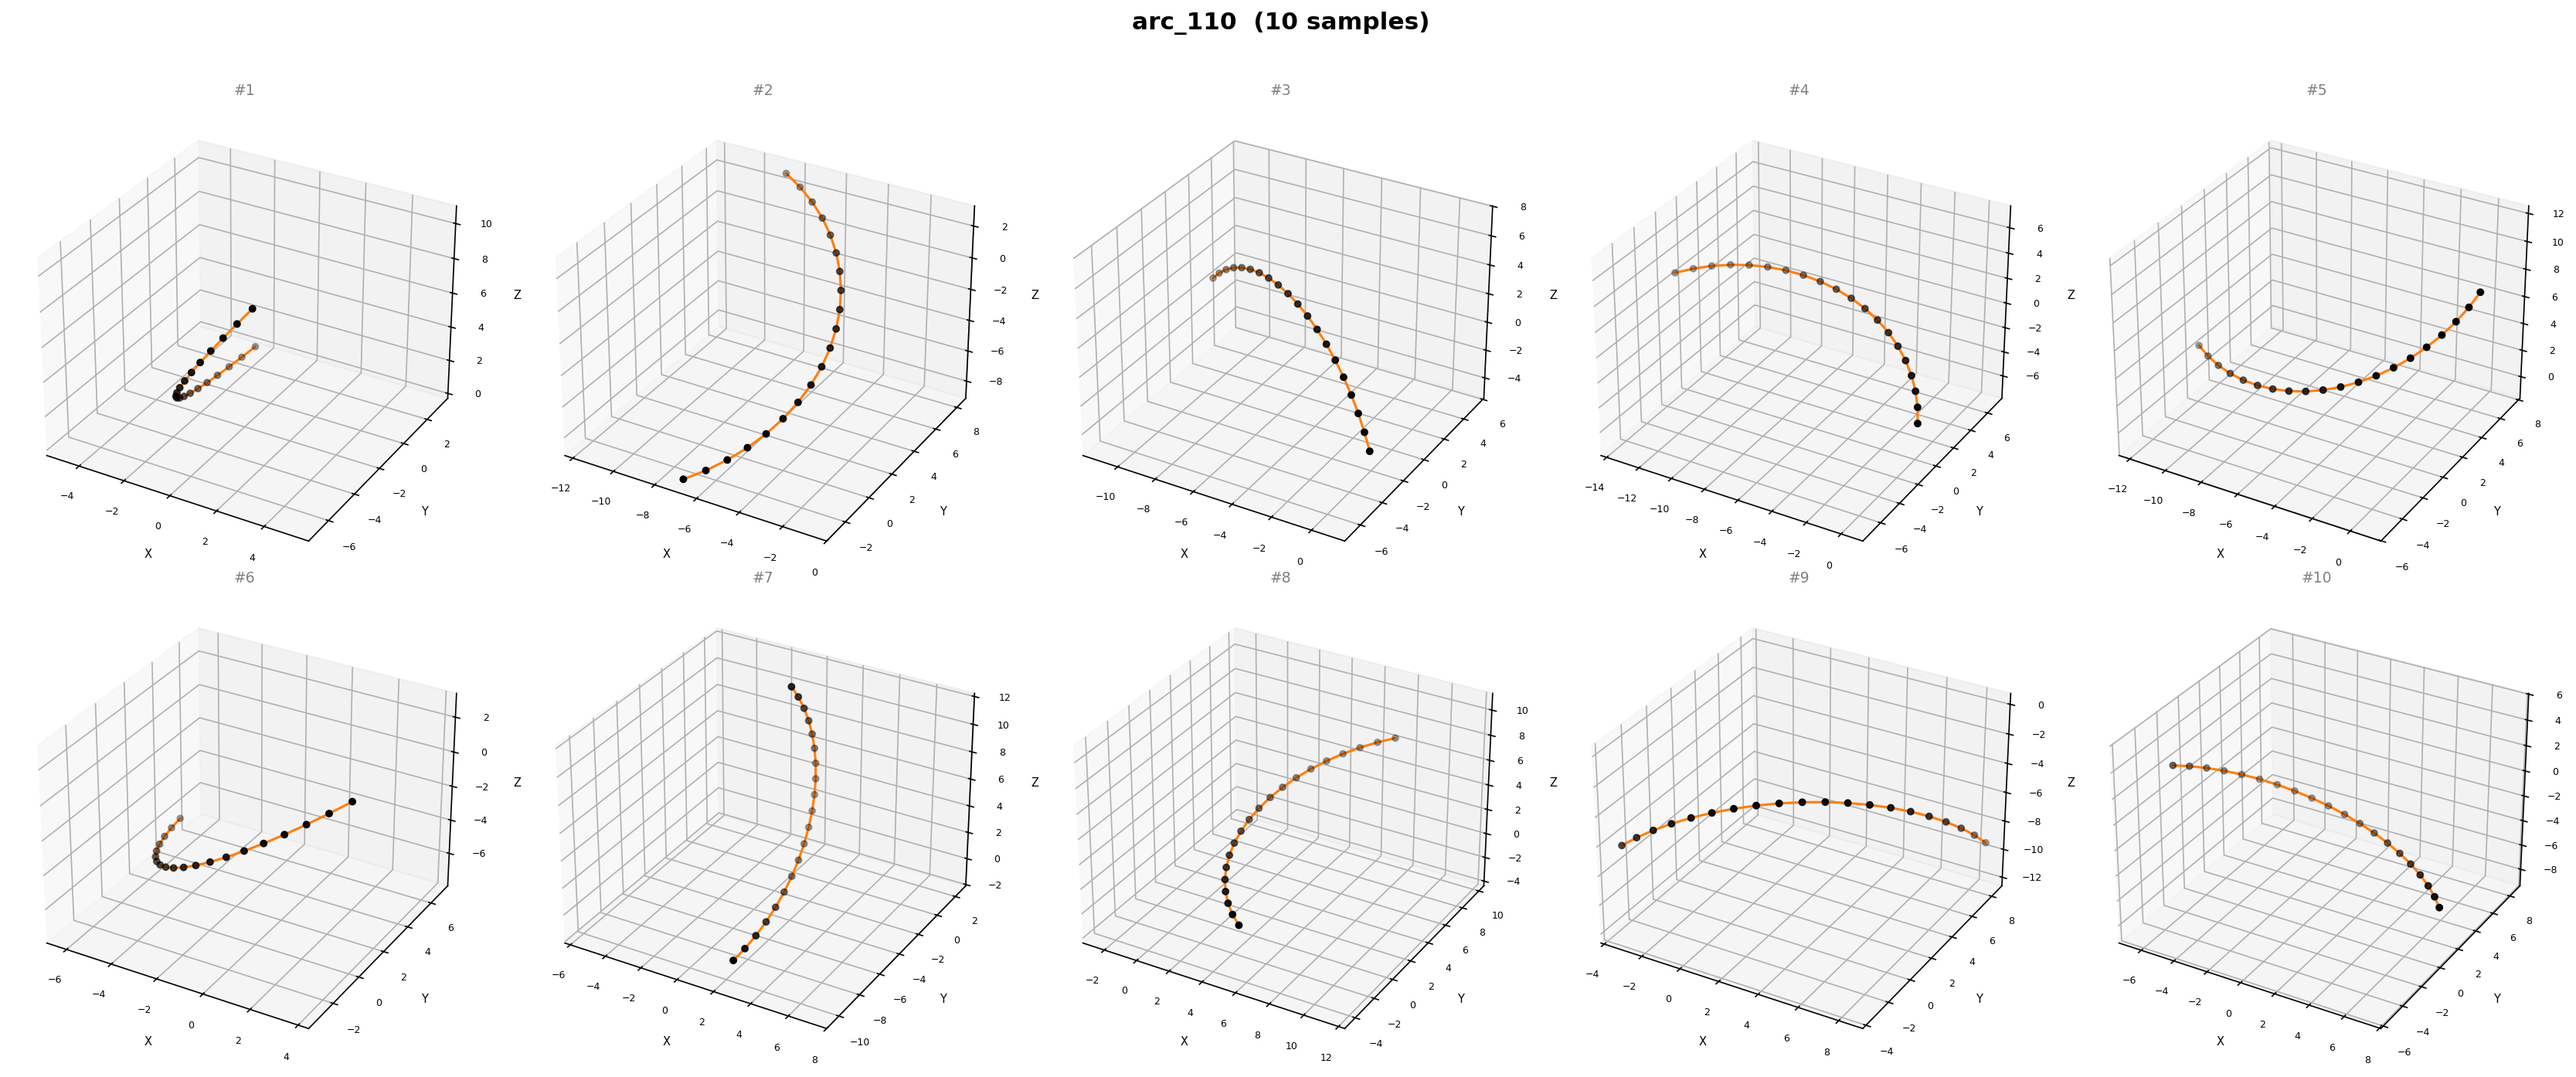
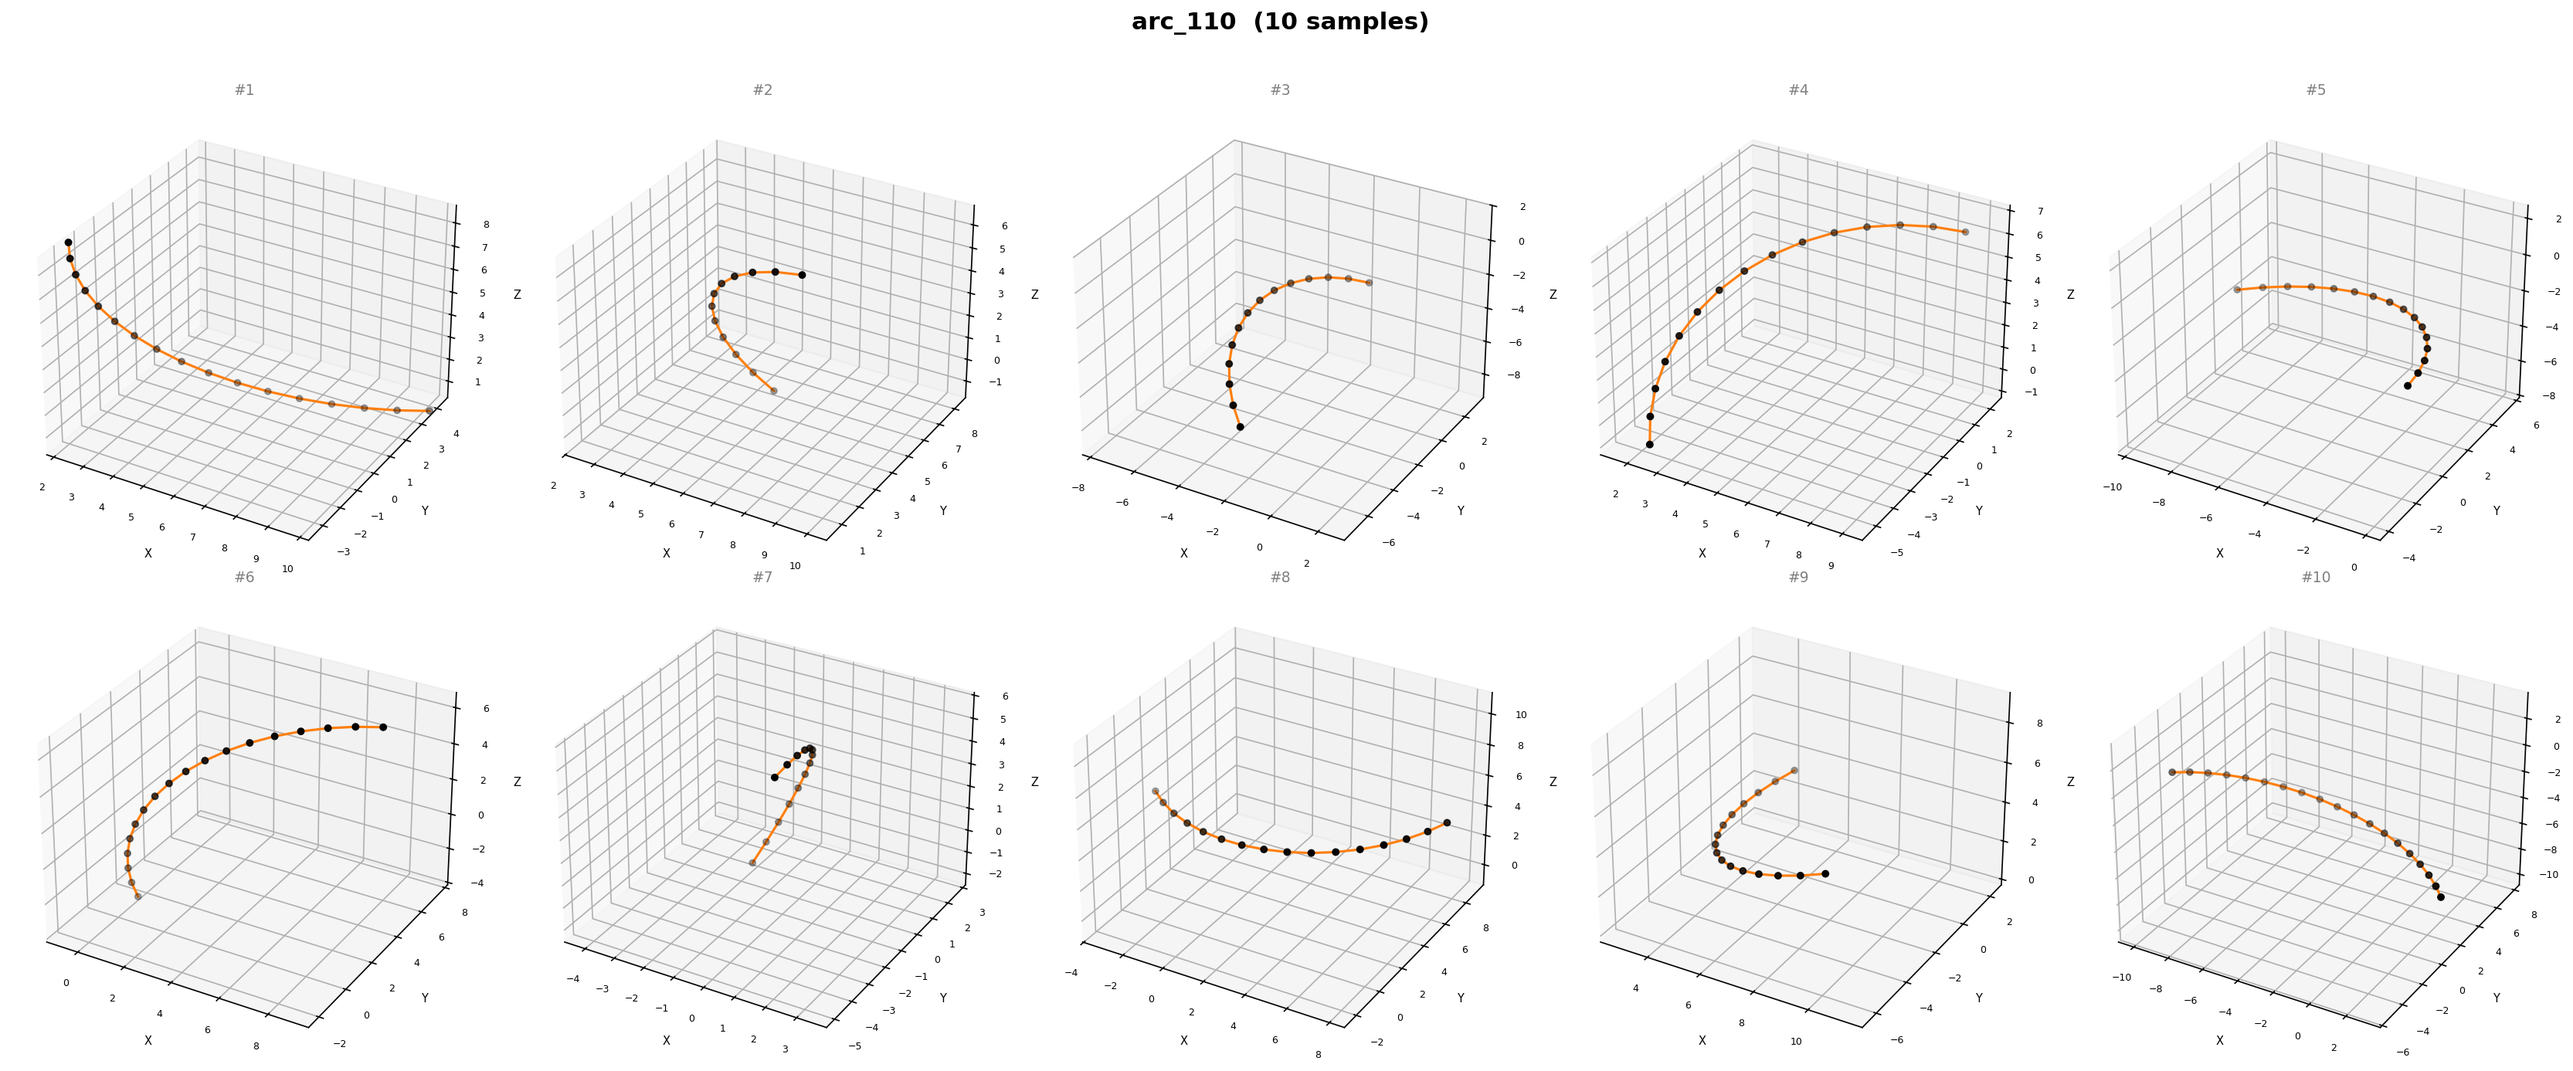
update

diff --git a/test_arc.py b/test_arc.py
@@ -1,0 +1,59 @@
+#!/usr/bin/env python3
+"""Quick test: verify every arc class gets ~same node count, correct total turn,
+and uniform node spacing."""
+from shape_generators import generate_arc, generate_straight, generate_corner, generate_junction_T, generate_junction_Y
+import numpy as np
+
+rng = np.random.default_rng(42)
+
+print("=" * 75)
+print("ARC VERIFICATION")
+print(f"{'arc':>8}  {'nodes':>5}  {'arc_len':>8}  {'radius':>8}  {'total_turn':>10}  {'spacing':>18}")
+print("-" * 75)
+
+for angle in [10, 30, 60, 90, 120, 150, 170]:
+    nodes, edges = generate_arc(angle_deg=angle, rng=rng)
+
+    # edge lengths (distances between consecutive nodes)
+    dists = np.linalg.norm(np.diff(nodes, axis=0), axis=1)
+    arc_len = dists.sum()
+
+    # total angular deviation
+    vecs = np.diff(nodes, axis=0)
+    total_turn = 0.0
+    for i in range(len(vecs) - 1):
+        n1, n2 = np.linalg.norm(vecs[i]), np.linalg.norm(vecs[i + 1])
+        if n1 > 1e-12 and n2 > 1e-12:
+            cos_a = np.clip(np.dot(vecs[i], vecs[i + 1]) / (n1 * n2), -1, 1)
+            total_turn += np.degrees(np.arccos(cos_a))
+
+    theta = np.deg2rad(angle)
+    radius = arc_len / theta
+
+    spacing_str = f"{dists.min():.3f}–{dists.max():.3f} (σ={dists.std():.4f})"
+    print(f"arc_{angle:>3d}  {len(nodes):>5d}  {arc_len:>8.1f}  {radius:>8.1f}  {total_turn:>9.1f}°  {spacing_str}")
+
+print()
+print("=" * 75)
+print("NODE SPACING CHECK — ALL CATEGORIES")
+print(f"{'category':>14}  {'nodes':>5}  {'min_dist':>8}  {'max_dist':>8}  {'mean_dist':>9}  {'std_dist':>8}")
+print("-" * 65)
+
+test_shapes = [
+    ("straight",    generate_straight(rng=np.random.default_rng(0))),
+    ("arc_10",      generate_arc(angle_deg=10,  rng=np.random.default_rng(0))),
+    ("arc_90",      generate_arc(angle_deg=90,  rng=np.random.default_rng(0))),
+    ("arc_170",     generate_arc(angle_deg=170, rng=np.random.default_rng(0))),
+    ("corner",      generate_corner(rng=np.random.default_rng(0))),
+    ("junction_T",  generate_junction_T(rng=np.random.default_rng(0))),
+    ("junction_Y",  generate_junction_Y(rng=np.random.default_rng(0))),
+]
+
+for name, (nodes, edges) in test_shapes:
+    # compute distance for every edge
+    edge_dists = np.array([np.linalg.norm(nodes[i] - nodes[j]) for i, j in edges])
+    print(f"{name:>14}  {len(nodes):>5d}  {edge_dists.min():>8.4f}  {edge_dists.max():>8.4f}  {edge_dists.mean():>9.4f}  {edge_dists.std():>8.4f}")
+
+print()
+print("✓ spacing std should be ~0 (uniform) for arcs and straights.")
+print("  Junctions may have slight variation due to arm-length randomisation.")

diff --git a/shape_generators.py b/shape_generators.py
@@ -70,17 +70,25 @@ def generate_straight(length: float | None = None,
 # ──────────────────────────────────────────────
 
 def generate_arc(angle_deg: float = 90.0,
-                 radius: float = 10.0,
+                 arc_length: float | None = None,
                  rng: np.random.Generator | None = None
                  ) -> Tuple[np.ndarray, List[Tuple[int, int]]]:
     """
-    Circular arc in the XY-plane of given *angle_deg* and *radius*,
-    discretised so adjacent nodes are ~1 unit apart.
+    Circular arc whose **total angular deviation** equals *angle_deg*.
+
+    The radius is derived:  R = arc_length / theta.
+
+    Small angles → large radius → gentle curve (almost straight).
+    Large angles → small radius → tight curve.
     """
     rng = rng or np.random.default_rng()
+    if arc_length is None:
+        arc_length = rng.uniform(10.0, 20.0)
+
     theta = np.deg2rad(angle_deg)
-    arc_len = radius * theta
-    n_pts = max(int(round(arc_len)) + 1, 2)
+    radius = arc_length / theta            # R derived from desired angle
+
+    n_pts = max(int(round(arc_length)) + 1, 2)   # ~1-unit node spacing
     angles = np.linspace(0, theta, n_pts)
 
     # optionally flip direction (clockwise / counter-clockwise)
